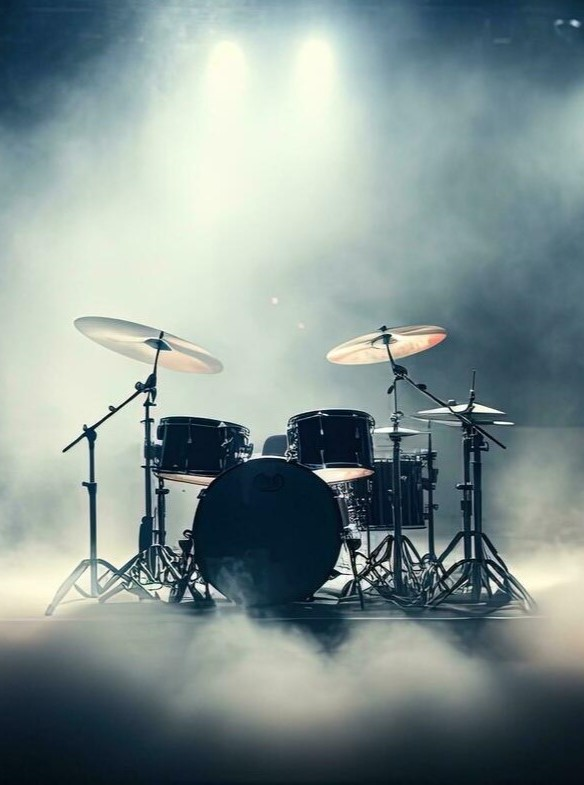
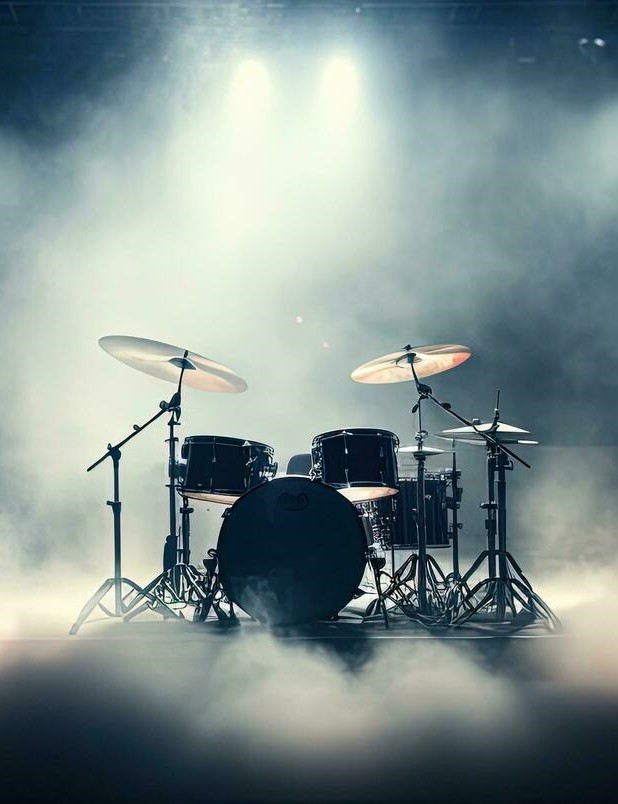
confused

diff --git a/root/CSS/index.css b/root/CSS/index.css
@@ -76,11 +76,7 @@
 
 @media (max-width: 768px) {
     #bgg {
-		background-image: url("../Images/testNarrow.jpg");
-        background-attachment: scroll;
-        background-position: center bottom; /* Ensures the background aligns properly */
-        background-position-x: 50%; /* Horizontally centered */
-        background-position-y: 100%; /* Bottom alignment */
+		background-image: url("../Images/testNarrower.jpg");
     }
 
     #bgg > h3 {
@@ -121,12 +117,6 @@
 
 /* Tablet-specific adjustments (iPads, etc.) */
 @media (min-width: 768px) and (max-width: 1024px) {
-    #bgg {
-		background-image: url("../Images/testNarrow.jpg");
-        background-attachment: scroll; /* Remove fixed attachment for tablets */
-        background-position: center bottom;
-    }
-
     #bgg > h3 {
         font-size: 7vw; /* Adjust font size for medium screens like iPads */
         top: 130px; /* Adjust vertical positioning */
